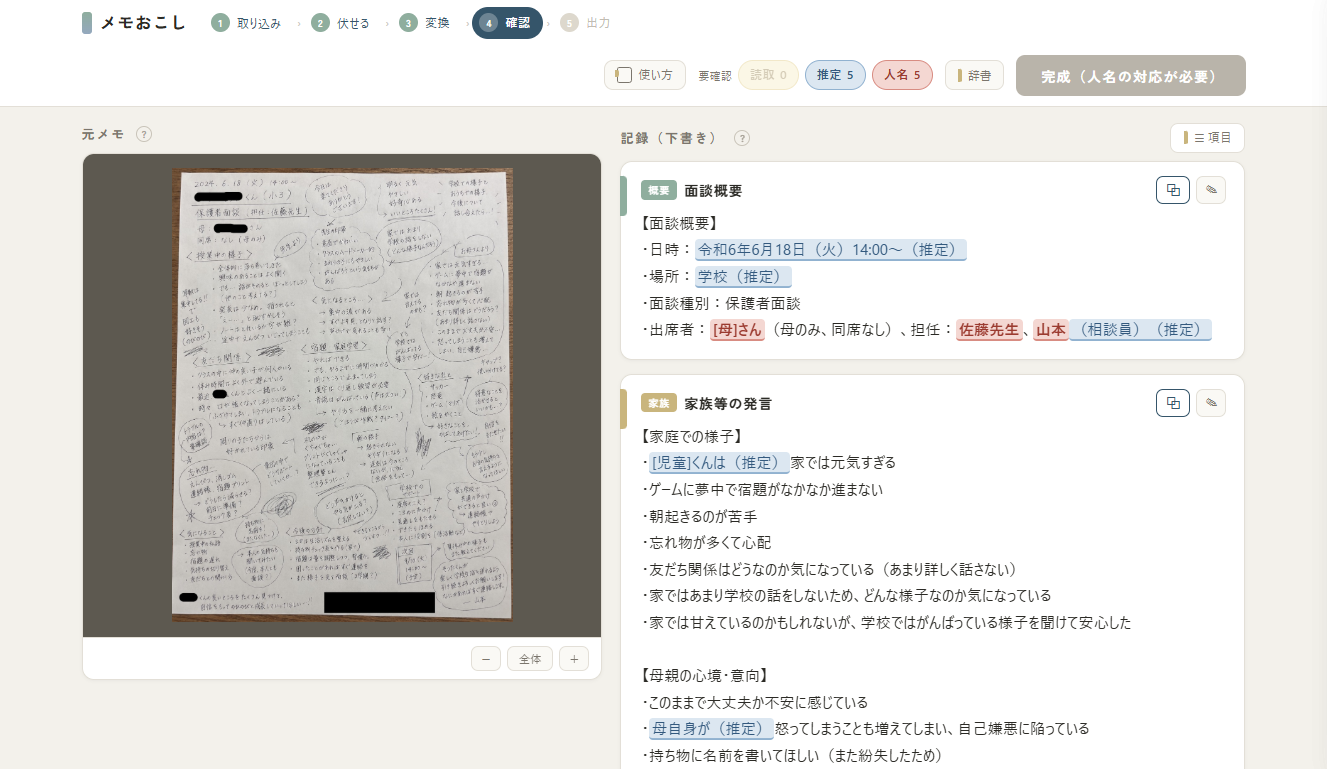
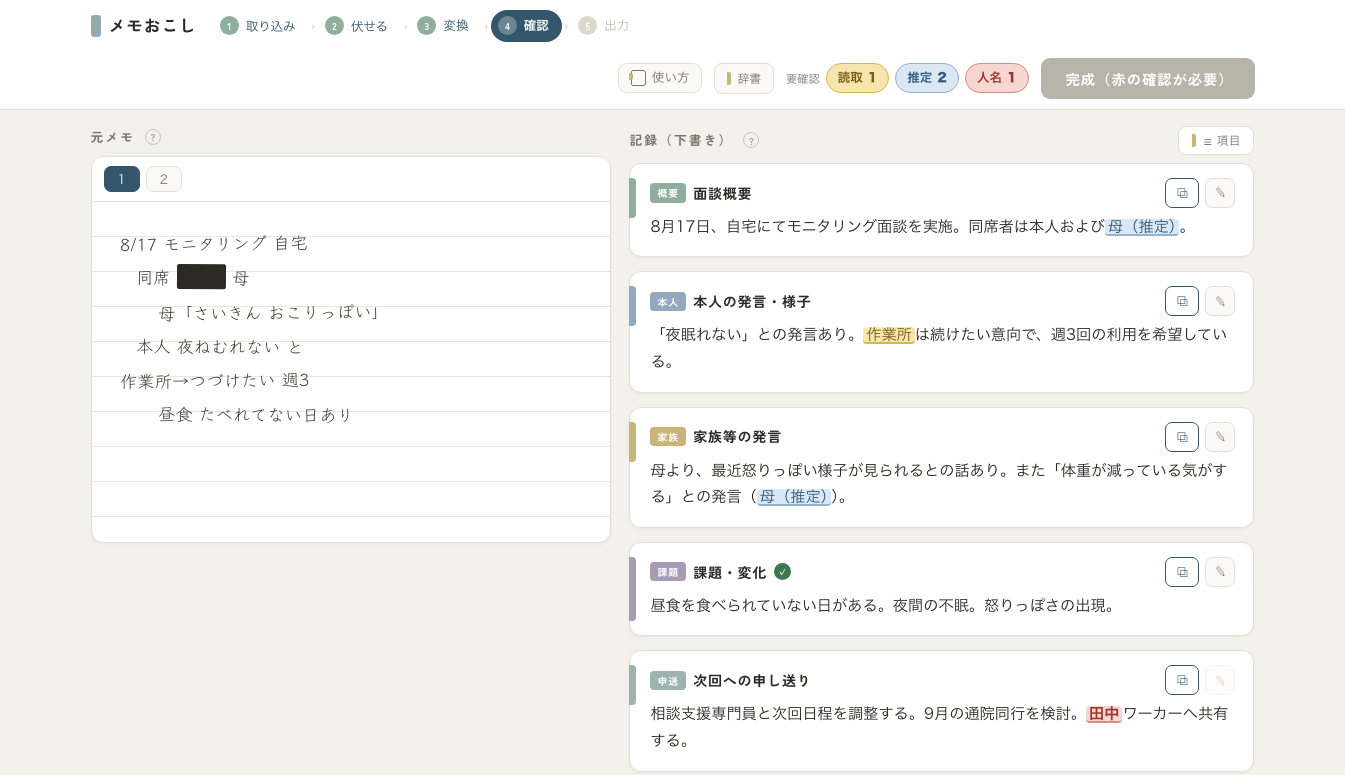
P16: 使い方ページの画面写真 08・09・11 を撮り直す（新しい赤の扱い）
- shoot.mjs に 08・09・11 を足した。開発データ（?fixture=1）を本番と同じビルドで開き、
  項目の設定を画面で変えて赤・黄・青を1画面に収める
- 要素の範囲で切り出す撮り方を足した（11 は出力画面だけ・文書の座標で切り出す）
- lib/about-copy.ts の w/h を実寸に（08・09 は 1345×775、11 は 1200×727）。alt は変えていない
- README の表と、about-copy.ts の古いコメント（「会議では出ない」を添える）を直した
- tests/about.test.mts: 08・09 の説明と寸法、11 の切り出し、原本と配信の一致を控えた

diff --git a/lib/about-copy.ts b/lib/about-copy.ts
@@ -9,7 +9,8 @@
 // [DECISION 2026-09-18] **会議の章は足さない**（P10・設計側の決定）。会議も流れは面談と同じで、違うのは数か所だけなので、
 //   該当する章に一文ずつ足す。章を足すと同じ話が二度出るうえ、`app/about/page.tsx` が注意事項・困ったときの見出しを
 //   `ABOUT.toc[7]`・`ABOUT.toc[8]` と**位置の番号**で読んでいるため、章の構成にも触ることになる。
-//   代わりに**冒頭の lead で「面談を例に説明する」と断り**、面談だけの話（赤い印）には「会議では出ない」を添える。
+//   代わりに**冒頭の lead で「面談を例に説明する」と断る**（当時は面談だけの話だった赤い印に「会議では出ない」を添えたが、
+//   P15 で会議にも赤が出るようになり、その文は外した。下の 2026-09-23 の決定）。
 // [DECISION 2026-09-18] ⚠ **項目の組み替えは面談と会議で書き分けない**（P10・設計側の訂正）。指示の初版は
 //   「面談の用紙は…項目を組み替えられます」だったが、**会議の用紙も3項目を外したり並べ替えたりできる**
 //   （違うのは追加項目が無いことだけ）。実装と突き合わせて設計側に差し戻し、両方に効く文へ直した。
@@ -226,8 +227,8 @@ export const ABOUT = {
             },
           ],
           shots: [
-            S("08-review.png", "確認画面。左に元のメモ、右に記録の下書き", 1327, 769),
-            S("09-review-popover.png", "青い印を押したところ。確定・書き換え・削除が選べる", 1333, 775),
+            S("08-review.png", "確認画面。左に元のメモ、右に記録の下書き", 1345, 775),
+            S("09-review-popover.png", "青い印を押したところ。確定・書き換え・削除が選べる", 1345, 775),
           ],
         },
         { n: "2", h: "文章を直す", ps: ["項目ごとに書き直せます。右上の鉛筆から開きます。「〇〇」になった箇所には、ここで名前を書き入れます。"] },
@@ -254,7 +255,7 @@ export const ABOUT = {
             { lb: "項目ごと", tx: "項目の右上のボタンでコピーします。" },
             { lb: "全文", tx: "完成の画面からまとめてコピーします。" },
           ],
-          shots: [S("11-output.png", "出力画面。転記用テキストとコピーのボタン", 635, 500)],
+          shots: [S("11-output.png", "出力画面。転記用テキストとコピーのボタン", 1200, 727)],
         },
         { n: "2", h: "ファイルで保存する", ps: ["WordとPDFで書き出せます。どちらも1ページ目の右上に押印欄が付きます。"] },
         {

diff --git a/docs/assets/help/README.md b/docs/assets/help/README.md
@@ -1,6 +1,8 @@
 # 使い方ページ（/about）用のスクリーンショット
 
-03〜12 は 2026-09-11 に設計側が撮影・提供したもの。01・02 は 2026-09-23 に `shoot.mjs` で撮り直した（Mac のヘッドレス Chrome・字面はヒラギノ。P14 でリンクとドロワーの影の直しに合わせて撮り直し）。
+03〜07・10・12 は 2026-09-11 に設計側が撮影・提供したもの。01・02 は 2026-09-23 に `shoot.mjs` で撮り直した（Mac のヘッドレス Chrome・字面はヒラギノ。P14 でリンクとドロワーの影の直しに合わせて撮り直し）。
+08・09・11 は 2026-09-30 に `shoot.mjs` で撮り直した（P16。原則3を「赤＝伏せ忘れの知らせ」に改めたため）。中身は開発データ（`?fixture=1`・`public/dev-fixture.json` の架空の面談）で、
+元メモの欄は開発データの再現表示。08・09 は画面全体（1345×775）、11 は出力画面の範囲だけを切り出した（1200×727）。
 どれも**無加工**でそのまま置いてある（原本と配信の md5 一致を確認済み）。
 番号は使い方ページで登場する順。
 
@@ -17,11 +19,12 @@
 | 05-mask.png | 2 伏せる（5か所を塗った状態） |
 | 06-mask-confirm.png | 2 伏せる・送信前の確認ダイアログ |
 | 07-converting.png | 3 変換中 |
-| 08-review.png | 4 確認（元メモ＋記録の下書き） |
-| 09-review-popover.png | 4 確認・青（AIの推定）のポップオーバー |
+| 08-review.png | 4 確認（元メモ＋記録の下書き。確認していない赤「田中」と黄・青の印・ヘッダーは「完成（赤の確認が必要）」） |
+| 09-review-popover.png | 4 確認・青（AIの推定）のポップオーバー（この内容で確定する／書き換えて確定／この推定は削除する） |
 | 10-spill-picker.png | 4 確認・こぼれの移動先＋AIの気づき |
-| 11-output.png | 5 出力（転記用テキスト） |
+| 11-output.png | 5 出力（転記用テキストとコピーのボタン。印をすべて片付けたあと・名前「田中」はそのまま出る） |
 | 12-vocab.png | 辞書（事業所の言葉） |
 
 **撮り直し方**: 本番と同じビルドを `npm run build && npm run start -- -p 3211` で立ち上げ、`node docs/assets/help/shoot.mjs [ファイル名…]` を実行する
-（1345×775・倍率1で撮り、この置き場所と `public/help/` の両方に書く。撮れる写真と画面のたどり方は `shoot.mjs` の `SHOTS` に1件ずつ足す）。
+（1345×775・倍率1で撮り、この置き場所と `public/help/` の両方に書く。撮れる写真と画面のたどり方は `shoot.mjs` の `SHOTS` に1件ずつ足す。
+要素の範囲だけを切り出すときは、手順から `{ clip: "選択子" }` を返す）。いま撮れるのは 01・02・08・09・11。
